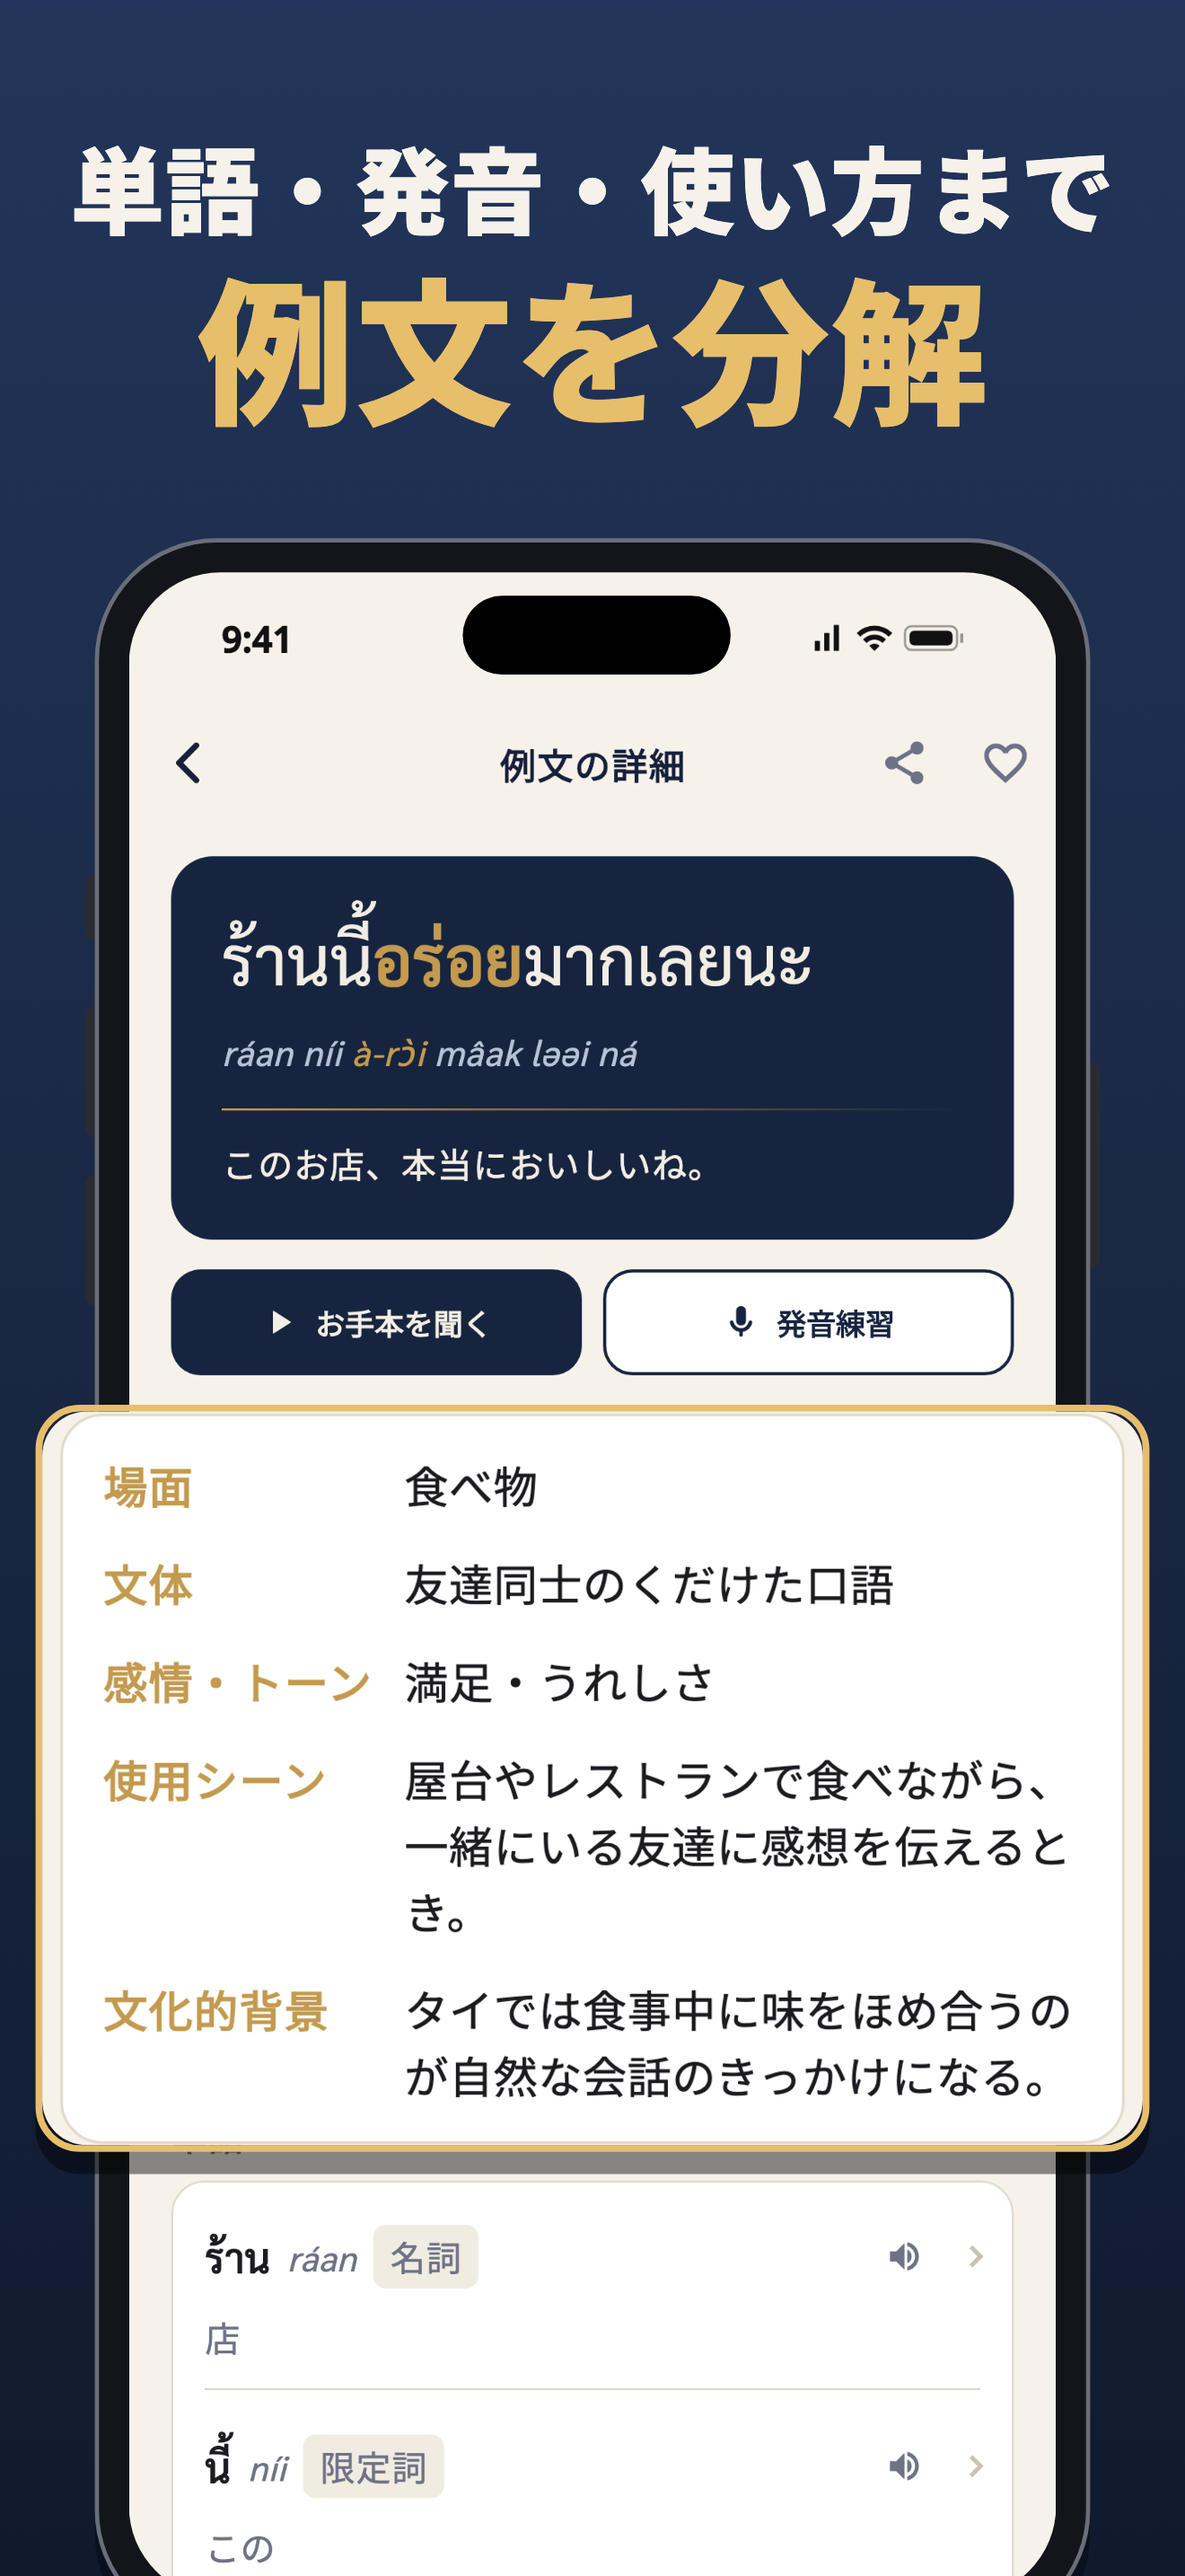
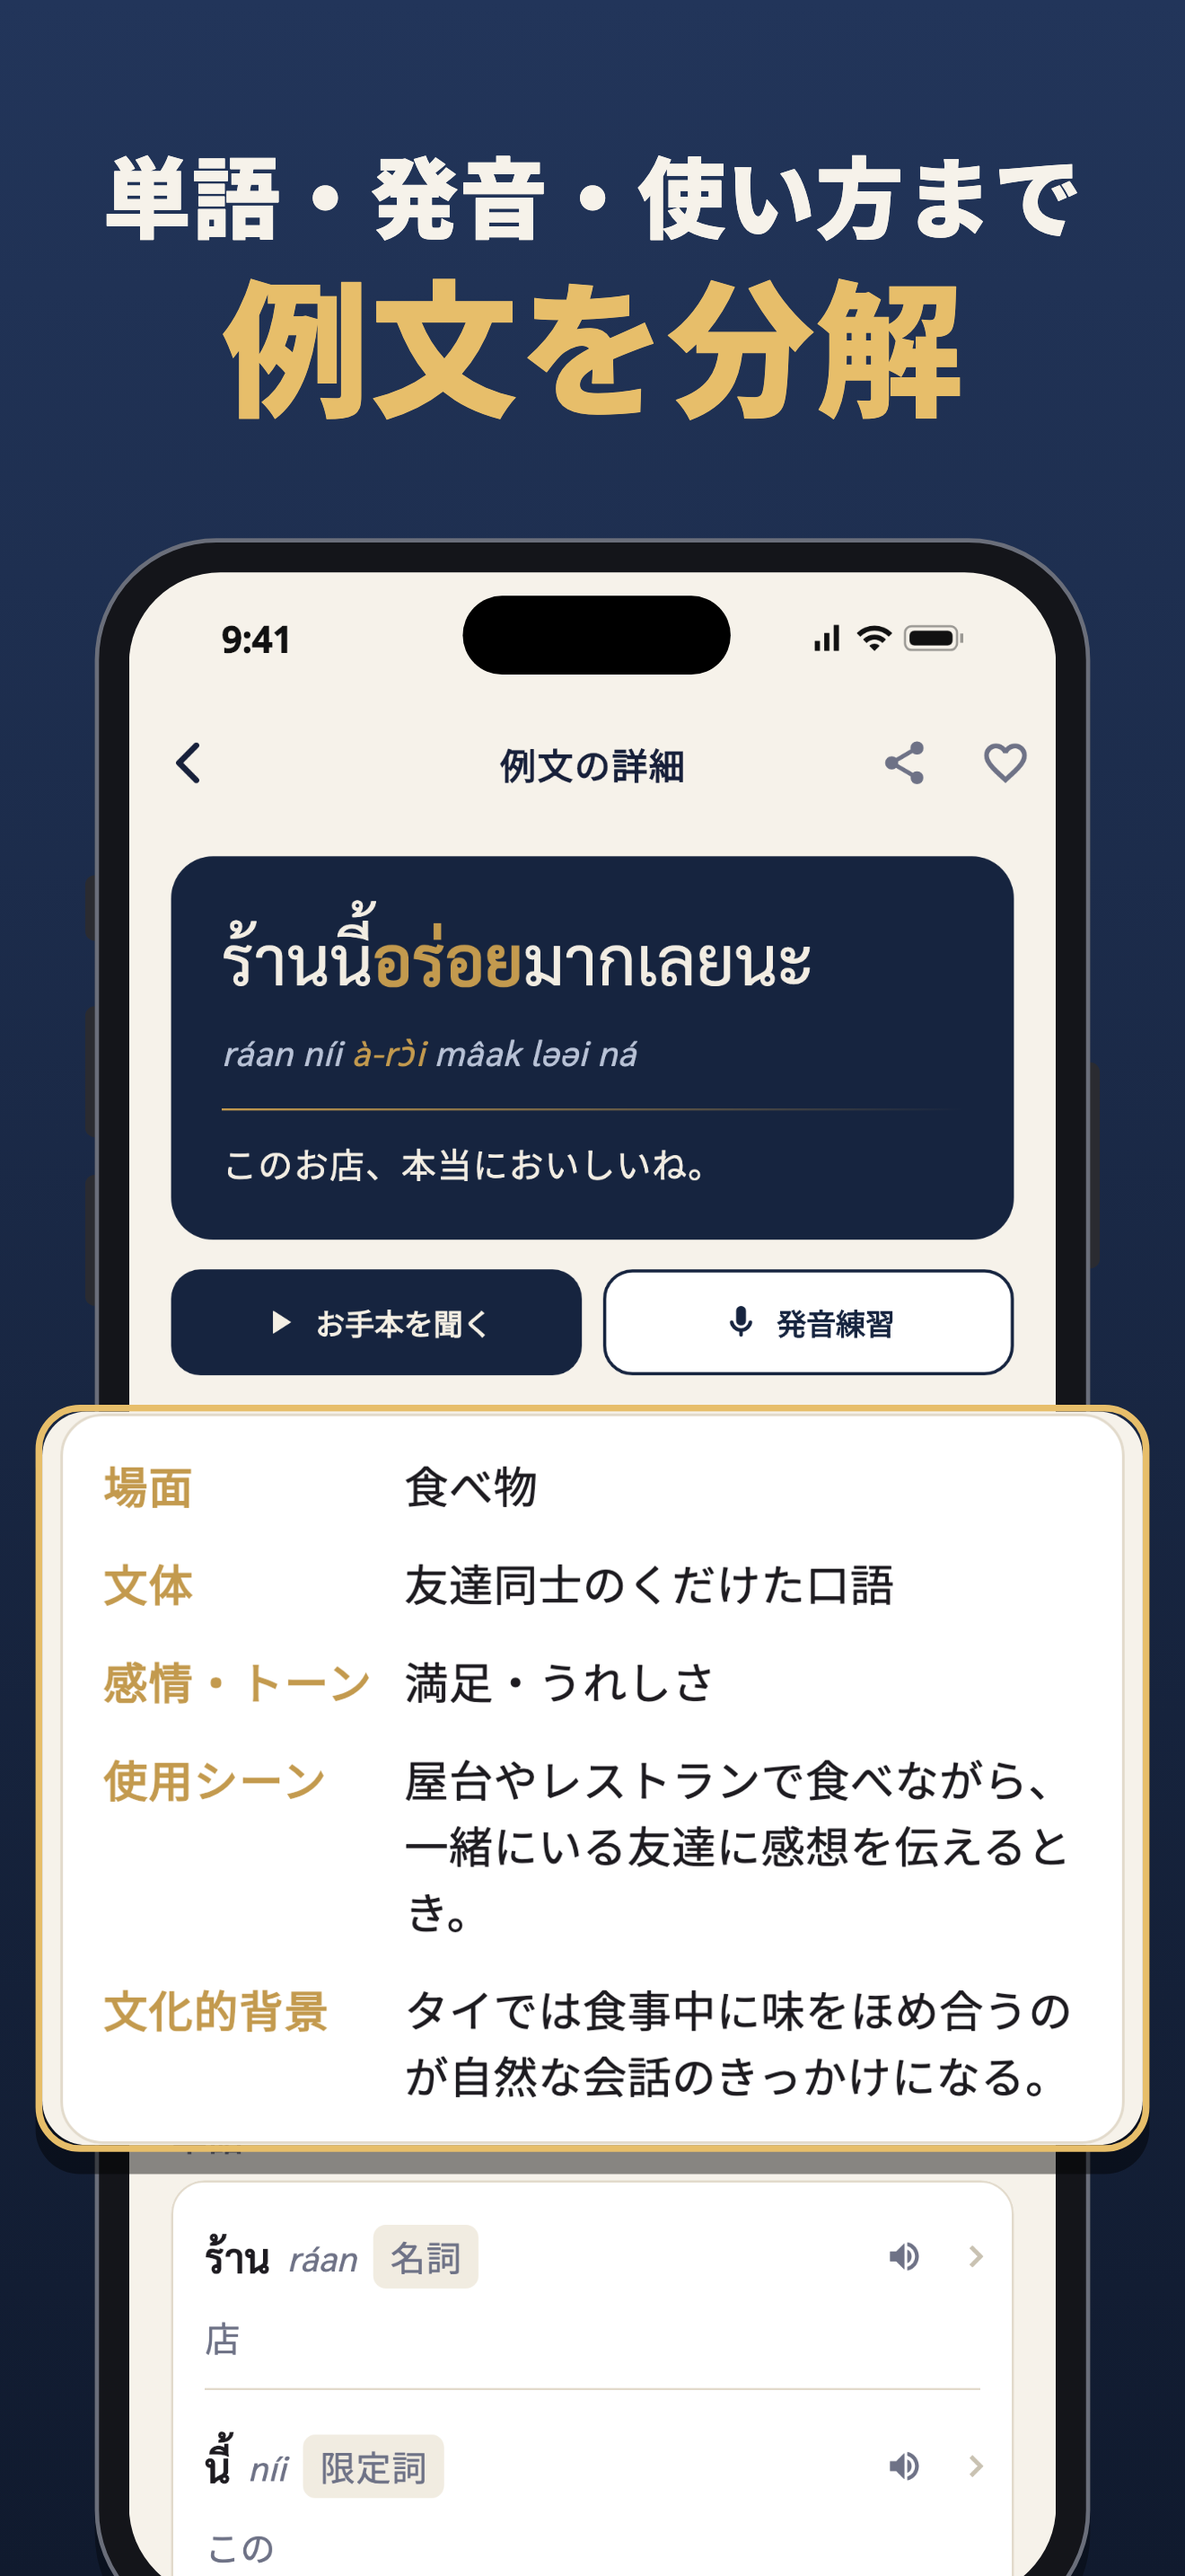
X の機能紹介の画像を撮り直し、綴り解説の投稿を足す

Changed region(s): [[0.4659, 0.0621, 0.9318, 0.1862], [0.0621, 0.031, 0.4659, 0.1862]]

diff --git a/test/screenshots/store_screenshots.dart b/test/screenshots/store_screenshots.dart
@@ -24,11 +24,17 @@ import 'package:flutter/services.dart';
 import 'package:flutter_test/flutter_test.dart';
 
 const String _rawDir = 'build/store_shots/raw';
-const String _outDir = 'build/store_shots/out';
+// X の機能紹介用は --dart-define=CAPTIONS=tools/x_post/feature_captions.json
+// --dart-define=OUT=build/x_post_feature のように見出しの一覧と出力先を替える。
+const String _outDir =
+    String.fromEnvironment('OUT', defaultValue: 'build/store_shots/out');
 
 /// A/B テストの A 案（旧1枚目が先頭）。iPhone だけ。
 const String _outAbDir = 'build/store_shots/out_a';
-const String _captionsPath = 'tools/store_screenshots/captions.json';
+const String _captionsPath = String.fromEnvironment(
+  'CAPTIONS',
+  defaultValue: 'tools/store_screenshots/captions.json',
+);
 const String _font = 'StoreCaption';
 const String _fontKo = 'StoreCaptionKo';
 

diff --git a/docs/code_index.md b/docs/code_index.md
@@ -1435,6 +1435,9 @@ Tips・ガイドの枠で study_posts.json から投稿文を1件抽選する（
 tools/x_post/study_posts.json
 Tips・ガイドの X 投稿文（アプリの Tips とガイドから書き起こした確認済みの完成文）。
 
+tools/x_post/feature_captions.json
+機能紹介（20時枠）に貼る画像の並びと見出し。ストア用スクショの合成（store_screenshots.dart の CAPTIONS / OUT）に渡して feature_images/ を作る。
+
 tools/x_post/select_prompt.txt
 例文選定のプロンプト（コードの外。書き換えて選び方を変える）。
 
